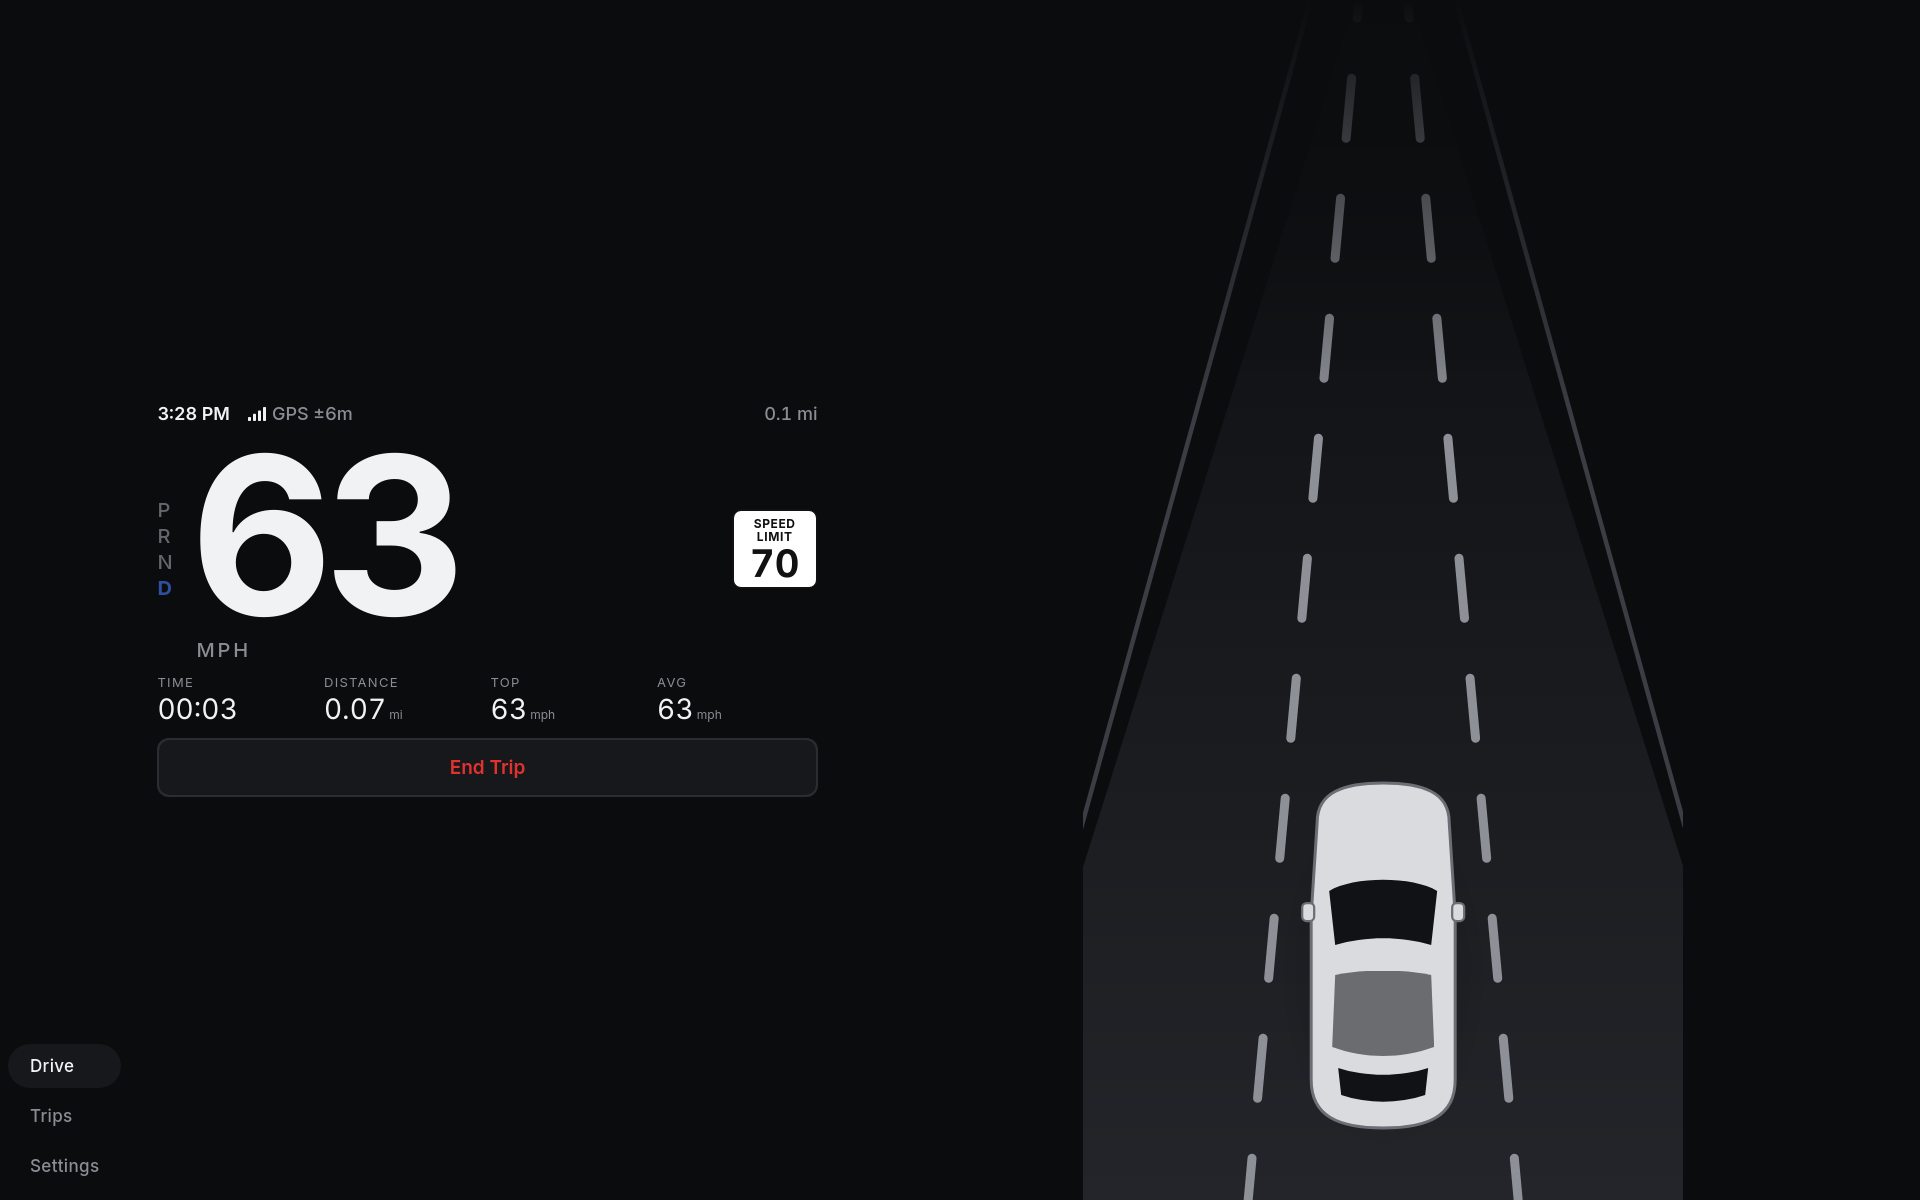
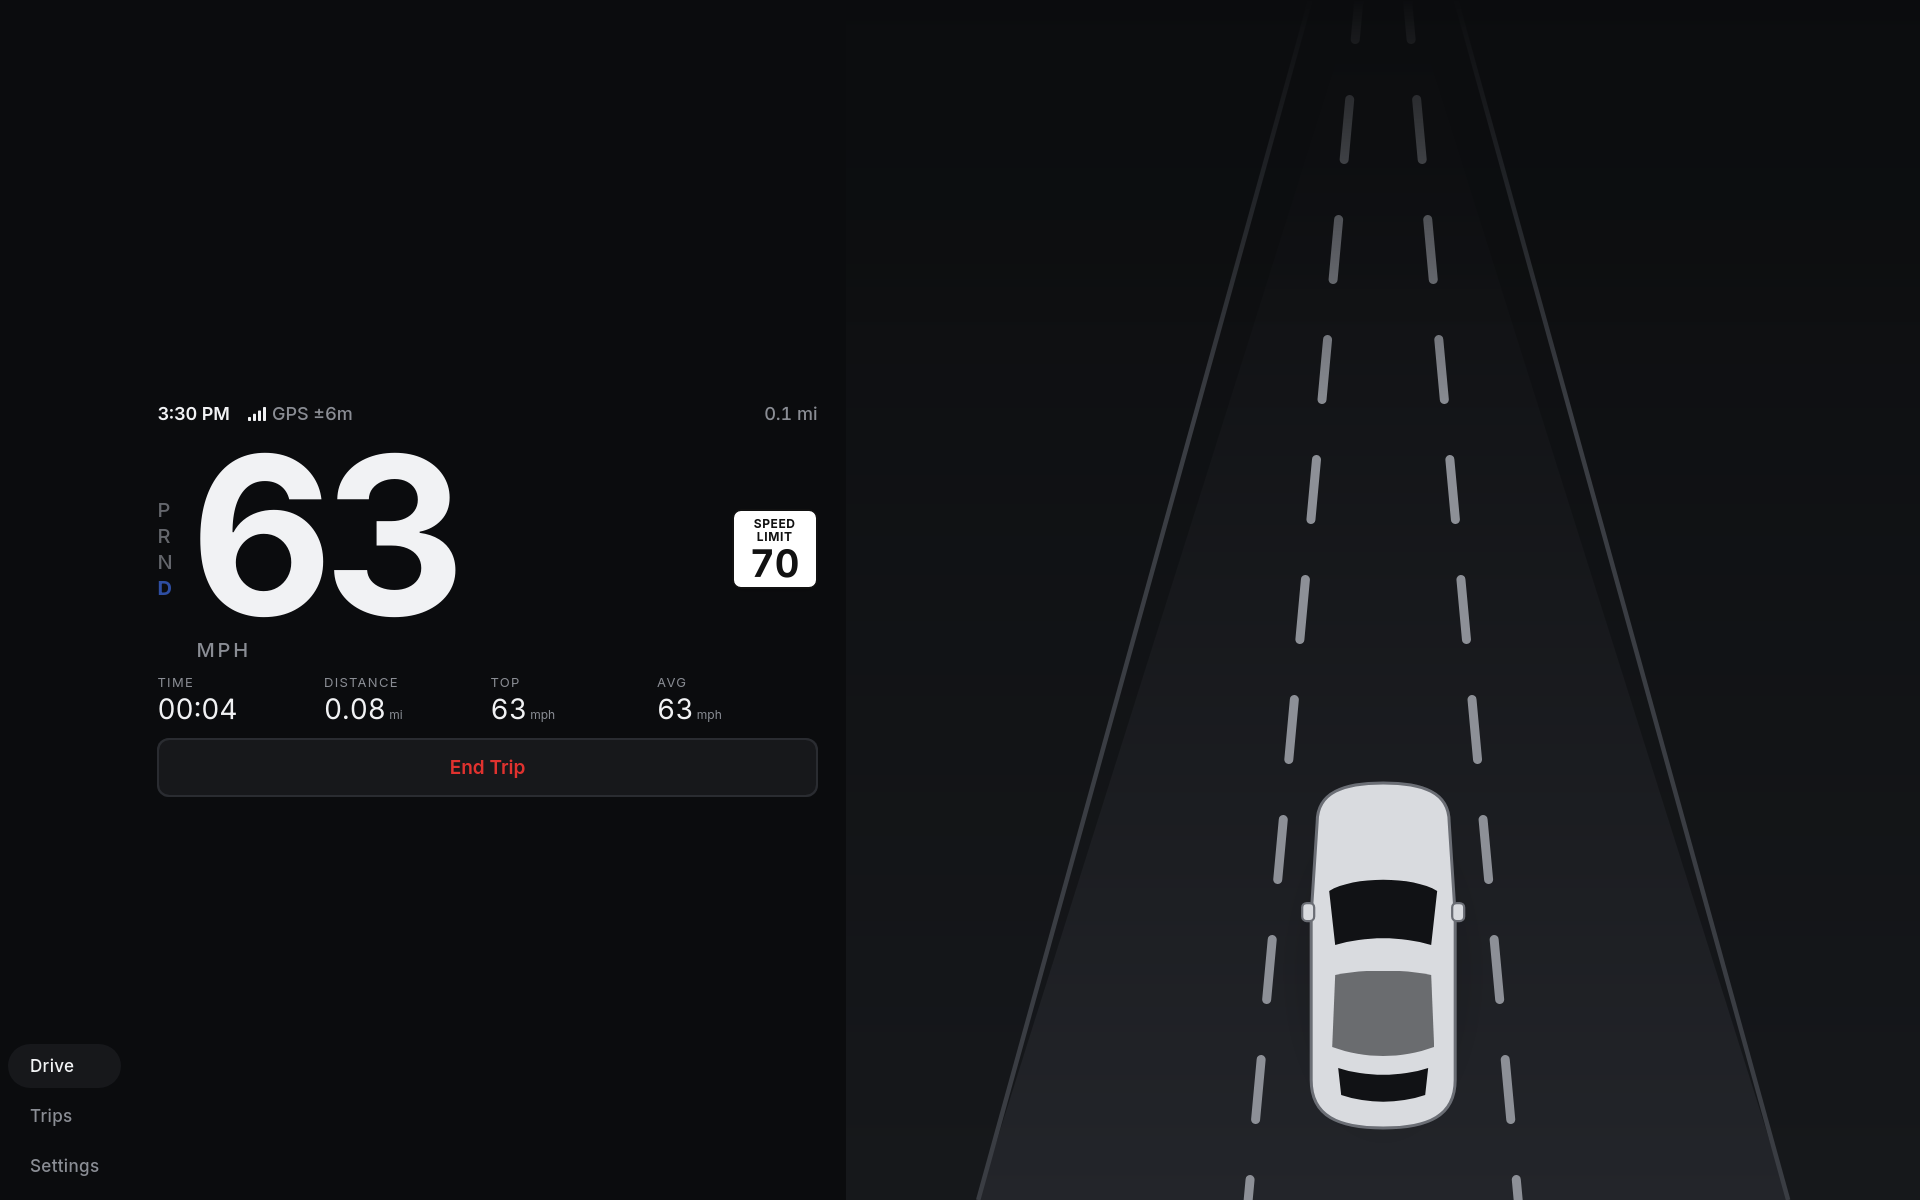
Wide-screen road backdrop

Changed region(s): [[0.875, 0.8633, 0.9375, 1.0], [0.5, 0.8633, 0.5625, 1.0]]

diff --git a/src/App.tsx b/src/App.tsx
@@ -178,11 +178,11 @@ function Road({ mps }: { mps: number }) {
         <defs>
           <linearGradient id="rg" x1="0" y1="0" x2="0" y2="1"><stop offset="0" className="rg0" /><stop offset="1" className="rg1" /></linearGradient>
           <linearGradient id="fade" x1="0" y1="0" x2="0" y2="1"><stop offset="0" stopColor="#fff" stopOpacity="0" /><stop offset=".35" stopColor="#fff" stopOpacity="1" /></linearGradient>
-          <mask id="m"><rect width="400" height="800" fill="url(#fade)" /></mask>
+          <mask id="m" maskUnits="userSpaceOnUse" x="-1600" y="0" width="3600" height="800"><rect x="-1600" width="3600" height="800" fill="url(#fade)" /></mask>
           <radialGradient id="shadow"><stop offset="0" stopColor="#000" stopOpacity=".28" /><stop offset="1" stopColor="#000" stopOpacity="0" /></radialGradient>
         </defs>
         <g mask="url(#m)">
-          <path d="M182,0 L218,0 L470,800 L-70,800 Z" fill="url(#rg)" />
+          <path d="M-1600,0 L2000,0 L2000,800 L-1600,800 Z" fill="url(#rg)" opacity=".45" /><path d="M182,0 L218,0 L470,800 L-70,800 Z" fill="url(#rg)" />
           <path d={lane(-70)} className="edge" /><path d={lane(470)} className="edge" />
           <g ref={g} className="dashes">
             <path d={lane(110)} pathLength="1200" /><path d={lane(290)} pathLength="1200" />
